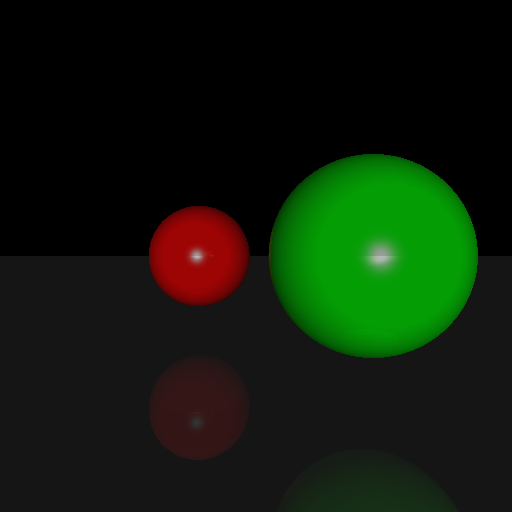
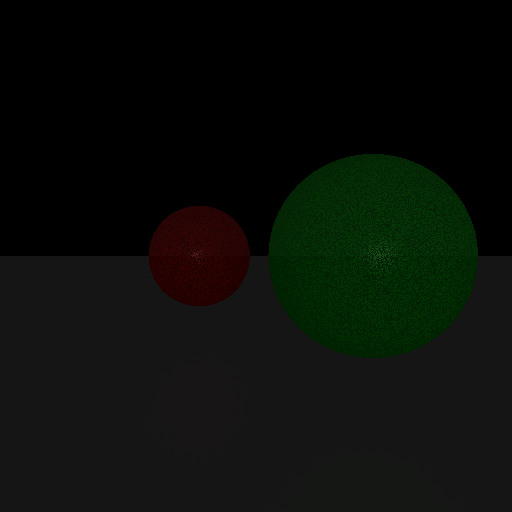
CHANGE MAIN

Changed region(s): [[0.2812, 0.2812, 0.9375, 0.7188], [0.2812, 0.7188, 0.4688, 0.9062]]

diff --git a/raytrace.py b/raytrace.py
@@ -256,9 +256,23 @@ def trace_ray(ray, scene, depth):
     r = r / np.linalg.norm(r)
 
     # new reflected ray
-    reflected_ray = Ray(p + 0.001 * r, p + r)
+    reflected_color = np.array((0.0, 0.0, 0.0))
+    samples = 5
 
-    reflected_color = trace_ray(reflected_ray, scene, depth + 1)
+    for _ in range(samples):
+        jitter = np.array((
+            np.random.uniform(-0.08, 0.08),
+            np.random.uniform(-0.08, 0.08),
+            np.random.uniform(-0.08, 0.08)
+        ))
+
+        glossy_dir = r + jitter
+        glossy_dir = glossy_dir / np.linalg.norm(glossy_dir)
+
+        glossy_ray = Ray(p + 0.001 * glossy_dir, p + glossy_dir)
+        reflected_color += trace_ray(glossy_ray, scene, depth + 1)
+
+        reflected_color = reflected_color / samples
 
     # mix colors
     # refraction
@@ -280,25 +294,51 @@ def trace_ray(ray, scene, depth):
 # MAIN RENDER
 # -----------------------------
 def main():
-
     width = 512
     height = 512
 
+    # ---------- view 1 ----------
     camera = Camera(f=500, nrows=height, ncols=width)
     scene = Scene(camera)
 
     for i in range(height):
         for j in range(width):
-
             ray = camera.constructRayThroughPixel(i, j)
-            hits = scene.find_intersection(ray)
-
             color = trace_ray(ray, scene, 0)
             camera.I[i][j] = color
 
-    img = im.fromarray(np.uint8(camera.I))
-    img.save("output.png")
-    img.show()
+    img1 = im.fromarray(np.uint8(camera.I))
+    img1.save("view1.png")
+    img1.show()
+
+    # ---------- view 2 ----------
+    camera.eye = np.array((120.0, 40.0, 0.0))
+    camera.I = np.zeros([height, width, 3])
+    scene = Scene(camera)
+
+    for i in range(height):
+        for j in range(width):
+            ray = camera.constructRayThroughPixel(i, j)
+            color = trace_ray(ray, scene, 0)
+            camera.I[i][j] = color
+
+    img2 = im.fromarray(np.uint8(camera.I))
+    img2.save("view2.png")
+    img2.show()
+
+    # ---------- view 3 ----------
+    camera.eye = np.array((-120.0, 60.0, 0.0))
+    camera.I = np.zeros([height, width, 3])
+    scene = Scene(camera)
+
+    for i in range(height):
+        for j in range(width):
+            ray = camera.constructRayThroughPixel(i, j)
+            color = trace_ray(ray, scene, 0)
+            camera.I[i][j] = color
+
+    img3 = im.fromarray(np.uint8(camera.I))
+    img3.save("view3.png")
 
 
 # -----------------------------
